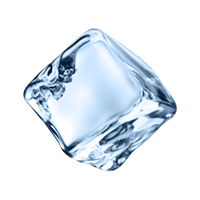
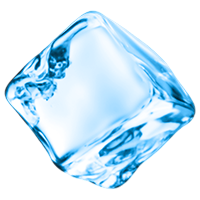
Take pull from server

diff --git a/css/style.css b/css/style.css
@@ -95,23 +95,23 @@ h6 {
 
 .nav-link {
     font-family: "Lato", sans-serif;
-    font-weight: 600;
-    font-size: 12px;
+    font-weight: 400;
+    font-size: 14px;
     text-transform: uppercase;
     letter-spacing: 1px;
     color: white;
 }
 
 .logo {
-    height: 50px;
+    height: 70px;
 }
 
 .navbar .nav-link:hover {
-    color: #a8cc3c;
+    color: #296314;
 }
 
 .navbar .nav-link.active {
-    color: #a8cc3c;
+    color: #296314;
 }
 
 .navbar-toggler:focus {
@@ -119,7 +119,10 @@ h6 {
 }
 
 nav .nav-link.show {
-    color: #a8cc3c !important;
+    color: #296314 !important;
+}
+.navbar-brand{
+    margin-right:40px;
 }
 
 .dropdown-menu {
@@ -707,32 +710,32 @@ iframe {
 
 @keyframes float-z {
     0% {
-        transform: translate(-50%, -50%) translateZ(0)  scale(1);
+        transform: translate(-50%, -50%) translateZ(0)  scale(1)  rotate(-20deg);
         /* rotate(-10deg) */
     }
 
     50% {
-        transform: translate(-50%, -50%) translateZ(50px)  scale(1.03);
+        transform: translate(-50%, -50%) translateZ(50px)  scale(1.03) rotate(-20deg);
         /* rotate(-10deg) */
     }
 
     100% {
-        transform: translate(-50%, -50%) translateZ(0)  scale(1);
+        transform: translate(-50%, -50%) translateZ(0)  scale(1) rotate(-20deg);
         /* rotate(-10deg) */
     }
 }
 
 @keyframes float-z-2 {
     0% {
-        transform: translate(-50%, -50%) translateZ(0) rotate(7deg) scale(1);
+        transform: translate(-50%, -50%) translateZ(0) rotate(10deg) scale(1);
     }
 
     50% {
-        transform: translate(-50%, -50%) translateZ(50px) rotate(7deg) scale(1.03);
+        transform: translate(-50%, -50%) translateZ(50px) rotate(10deg) scale(1.03);
     }
 
     100% {
-        transform: translate(-50%, -50%) translateZ(0) rotate(7deg) scale(1);
+        transform: translate(-50%, -50%) translateZ(0) rotate(10deg) scale(1);
     }
 }
 
@@ -756,28 +759,42 @@ iframe {
 
 .product-coconut-bg {
     min-height: 690px;
-    /* background: #74b05c; */
-    background-image: linear-gradient(rgb(164, 222, 140) 0%, rgb(19, 75, 19) 100%);
+    /*background: #2f4912; */
+    /*background-image: linear-gradient(#658807 0%, #3a4810 100%);*/
+    background-image: url('../img/coconut/bcorchard_coconut_water_bg.jpg'); 
+   background-size: 100% auto; /* Ensures full width, proportional height, no crop */
+    background-position: top center; /* Aligns image to the top and center */
+    background-repeat: no-repeat;
     display: flex;
     align-items: center;
     justify-content: center;
     perspective: 1000px;
+    clip-path: polygon(
+        0% 0%,
+        100% 0%,
+        100% 100%,
+        75% 96%,
+        50% 94%,
+        25% 96%,
+        0% 100%
+    );
+    
 }
 
 .product-coconut-img,
 .product-coconut-img-2 {
-    height: 500px;
+    height: 400px;
     position: absolute;
-    top: 50%;
-    left: 38%;
+    top: 56%;
+    left: 42%;
     animation: float-z 3s ease-in-out infinite;
     transform-style: preserve-3d;
     will-change: transform;
 }
 
 .product-coconut-img-2 {
-    top: 48%;
-    left: 66%;
+    top: 41%;
+    left: 64%;
     animation: float-z-2 4s ease-in-out infinite;
 }
 
@@ -785,22 +802,22 @@ iframe {
 .floating-ice-2,
 .floating-ice-3 {
     position: absolute;
-    top: 40%;
-    left: 10%;
+    top: 20%;
+    left: 71%;
     /* transform: translate(-50%, -50%); */
-    width: 100px;
+    width: 150px;
     animation: float 4s ease-in-out infinite;
 }
 
 .floating-ice-2 {
     top: 60%;
-    left: 13%;
+    left: 78%;
     animation: float 5s ease-in-out infinite;
 }
 
 .floating-ice-3 {
-    top: 35%;
-    left: 83%;
+    top: 52%;
+    left: 14%;
     animation: float 6s ease-in-out infinite;
 }
 
@@ -828,7 +845,7 @@ iframe {
 .product-coconut-bg-2 {
     width: 100%;
     height: auto;
-    background-image: linear-gradient(180deg, #a4de8c 0%, #134b13 100%);
+    background-image: linear-gradient(180deg, #516e32 0%, #134b13 100%);
     display: flex;
     align-items: center;
     justify-content: center;

diff --git a/coconut-water.php b/coconut-water.php
@@ -51,9 +51,9 @@
         </div>
     </div>
 
-    <svg viewBox="0 0 1440 100" style="display: block; width: 100%; height: auto;">
-        <path fill="#74b05c" d="M0,100 Q720,0 1440,100 L1440,0 L0,0 Z"></path>
-    </svg>
+    <!--<svg viewBox="0 0 1440 100" style="display: block; width: 100%; height: auto;">-->
+    <!--    <path fill="#3a4810" d="M0,100 Q720,0 1440,100 L1440,0 L0,0 Z"></path>-->
+    <!--</svg>-->
 
     <div class="container">
         <div class="section-padding-sm">
@@ -90,7 +90,7 @@
     </div>
 
     <svg viewBox="0 0 1440 100" style="display: block; width: 100%; height: auto; margin-bottom: -1px;">
-        <path fill="#a4de8c" d="M0,100 Q720,0 1440,100 L1440,100 L0,100 Z"></path>
+        <path fill="#516e32" d="M0,100 Q720,0 1440,100 L1440,100 L0,100 Z"></path>
     </svg>
 
     <div class="product-coconut-bg-2 position-relative">

diff --git a/inc/header.php b/inc/header.php
@@ -30,7 +30,7 @@ $config = [
 
 <header>
     <nav class="navbar navbar-expand-sm">
-        <div class="custom-container container d-flex justify-content-between align-items-center">
+        <div class="custom-container container d-flex justify-content-between align-items-end">
             <a class="navbar-brand" href="index.php">
                 <img src="img/home/logo.png" alt="logo" class="logo">
             </a>
